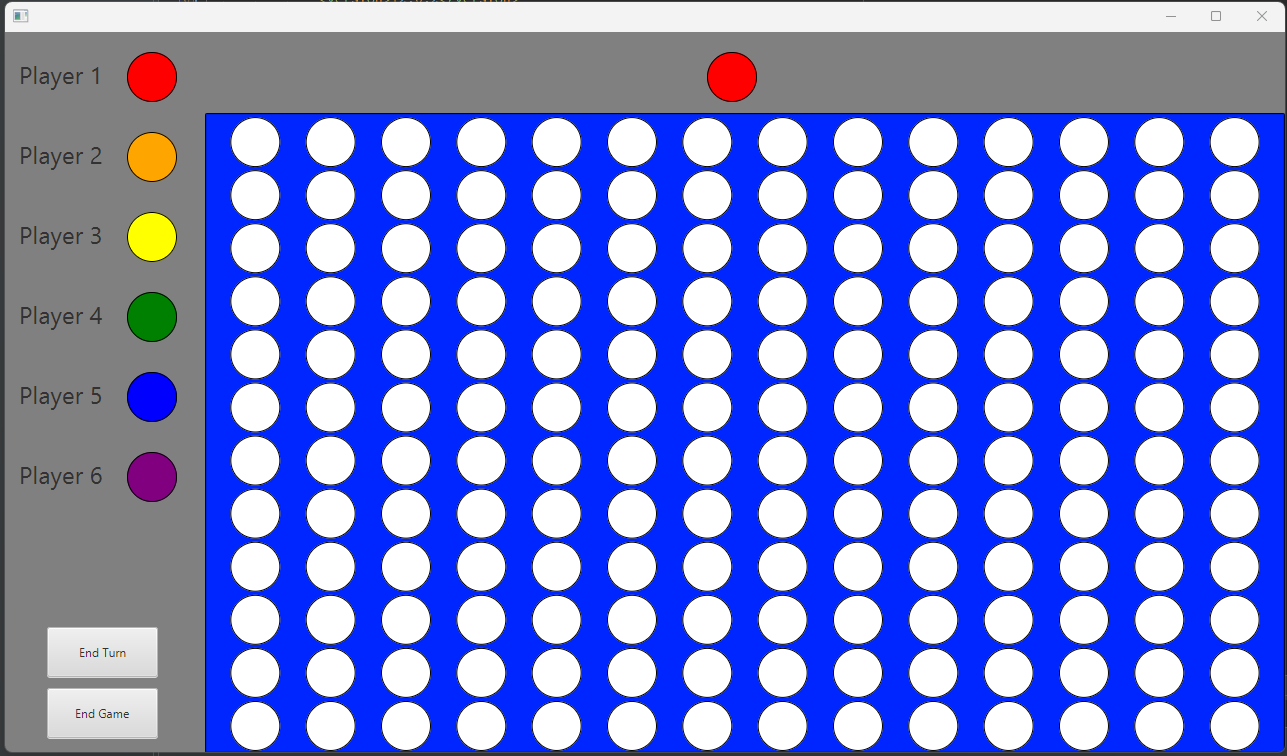
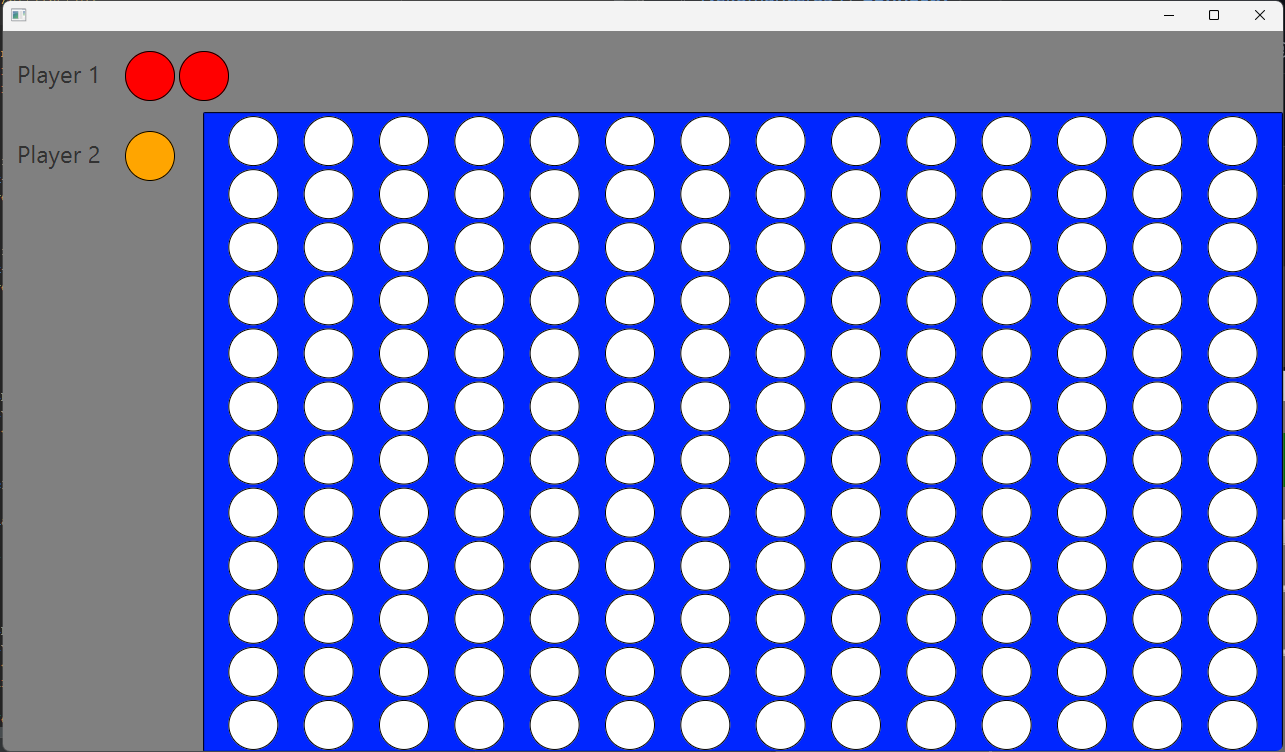
updated SRS document with changes relating to phase 2

diff --git a/Documents/ConnectX-SRS.md b/Documents/ConnectX-SRS.md
@@ -199,7 +199,7 @@ REQ-1: drop-down with player count values
 
 #### 3.4.1 Description and Priority
 
-The players will artificially be able to make the board smaller than it should be for the number of players present making it much more difficult to win before the board is full 
+The players will artificially be able to make the board smaller than it should be for the number of players present making it much more difficult to win before the board is full. The difficulty will be calculated by taking into account the number of players in the game and also the value of the difficulty slider to return a board size that may be different than the board size needed to host 6 players. 
 
 #### 3.4.2 Stimulus/Response Sequences
 
@@ -274,8 +274,6 @@ second iteration main menu\
 Game Menu
 - 16:9
 - one panel on left
-- end game button
-- end turn button
 - help button
 - player list
 - error message box above board
@@ -348,13 +346,10 @@ State Machine Diagram\
 
 
 ## Appendix C: Issues List
-TBD - Game engine
-
-* JavaFX seems like a good choice as it can be integrated into swing UIs that we have been using in class
-* Information is needed to determine if we should continue looking into JavaFX or something else such as libGDX
 
 TBD - piece tracking
 * for game piece tracking and win condition checking, 2D arrays and linked lists seem equally able to be used however one might be more efficient so we need to look into these
 
-TBD - Game menu layout
-* The UI for the game menu can be set up multiple ways that seem to be equally user friendly so we should decide on that
+TBD - Game menu missing planned features
+* several features outlined in 4.1 such as a help button and error message box are missing from the game board UI. This should be re-evaluated to determine if these are really necessary and if so they should be implemented.
+
